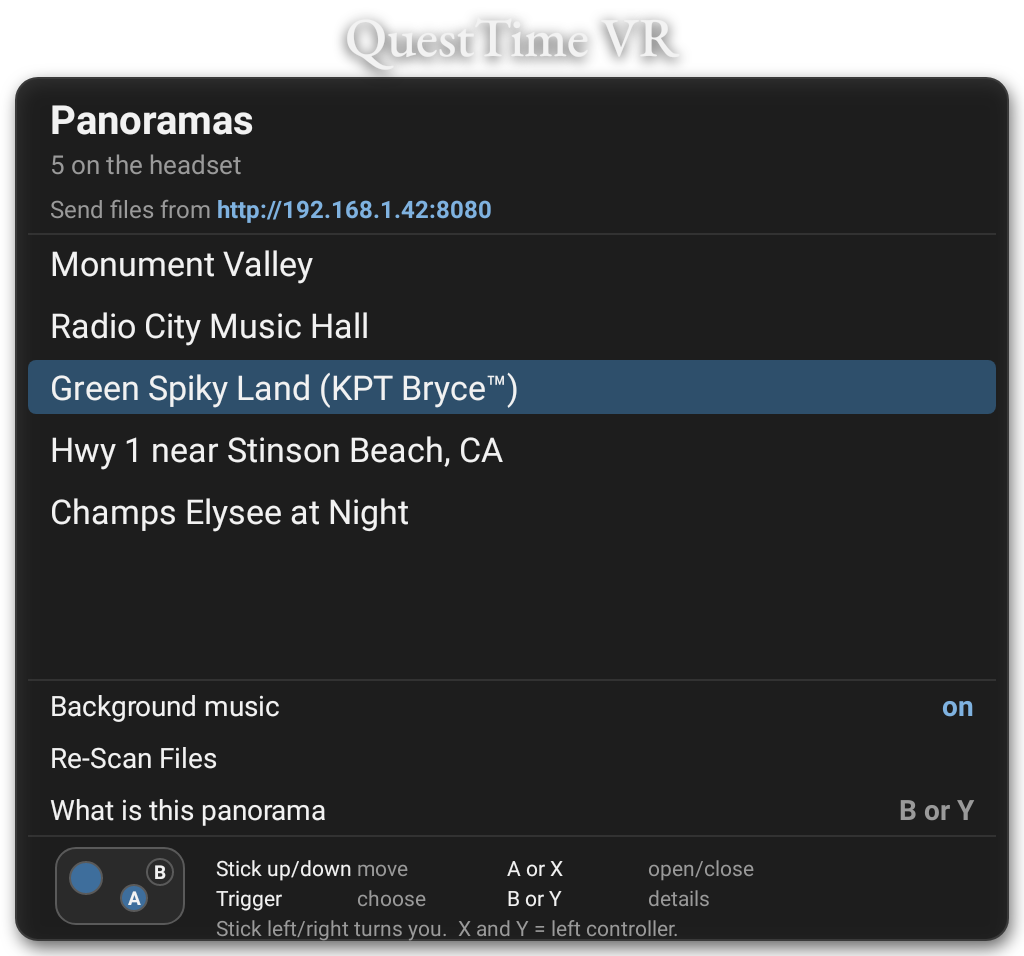
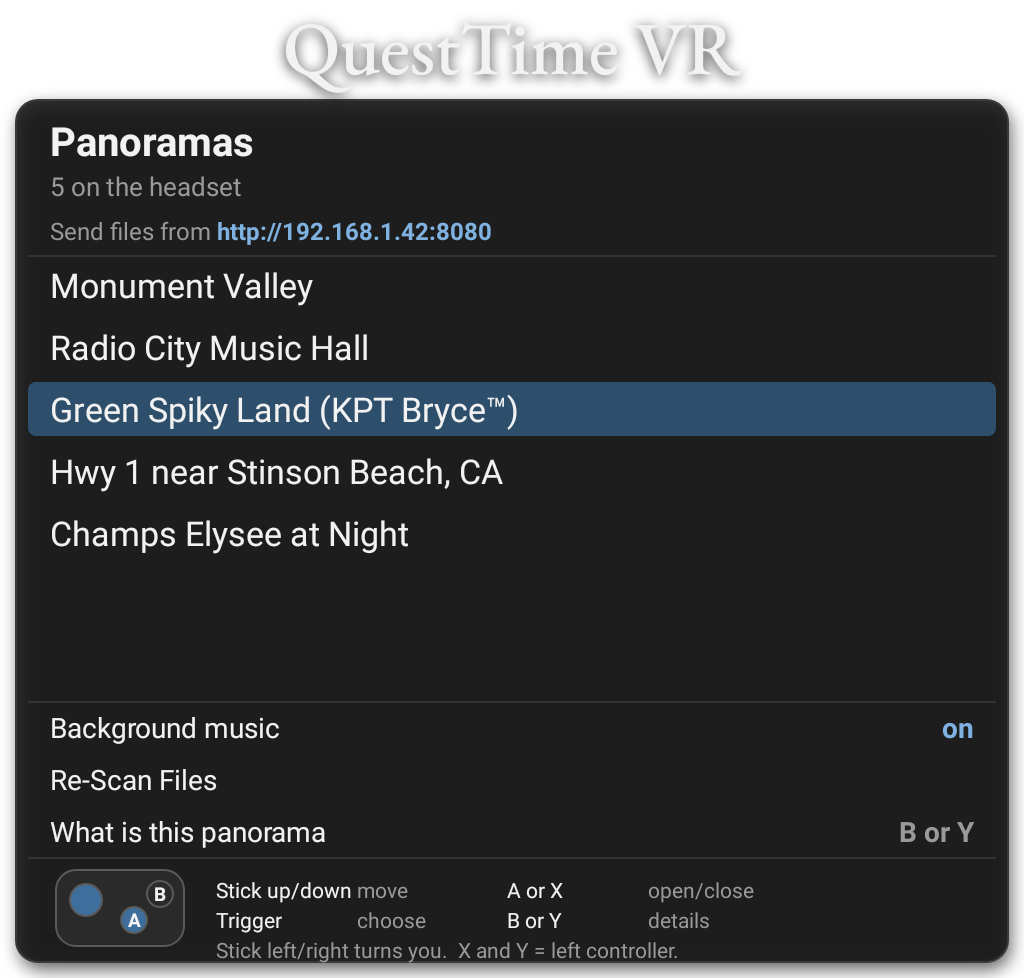
Menu title at 75 px, in a taller strip above the panel
BRAND_H grows from 62 to 84 so the capitals and the Q's tail both fit. rowAt and
listHeight read it, and native sizes the quad from the bitmap's proportions, so
nothing else changes. 126 tests, 0 skipped, 0 failed.

diff --git a/android/app/src/main/java/com/questtime/vr/MenuBar.kt b/android/app/src/main/java/com/questtime/vr/MenuBar.kt
@@ -318,7 +318,10 @@ object MenuBar {
      * rather than inside it, so it reads as a title on the panel instead of a first
      * row in the list.
      */
-    internal const val BRAND_H = 62f
+    // Sized to the title: at 75 px of Garamond the capitals need about 50 px above the
+    // baseline and the Q's tail about 18 below it. rowAt and listHeight both read this,
+    // so the rows move with it and nothing else needs telling.
+    internal const val BRAND_H = 84f
 
     /** Rows in the band under the list, in order. Index 0 is the first after the files. */
     internal const val ACTION_MUSIC = 0
@@ -476,18 +479,18 @@ object MenuBar {
     private fun brand(c: Canvas, panel: RectF) {
         val p = Paint(Paint.ANTI_ALIAS_FLAG).apply {
             color = TEXT
-            // 55 px. Garamond's lowercase is short, so it needs more size than the Roboto
+            // 75 px. Garamond's lowercase is short, so it needs more size than the Roboto
             // it replaced to carry the same weight over a bright panorama.
-            textSize = 55f
+            textSize = 75f
             typeface = brandFace ?: Typeface.create(UI, Typeface.BOLD)
             textAlign = Paint.Align.CENTER
             setShadowLayer(10f, 0f, 3f, 0xCC000000.toInt())
         }
         // Centred over the panel rather than flush with its edge: it is a title for
         // the whole thing, not the first line of the list.
-        // 22 px above the panel rather than 16: at 55 px the Q's tail reaches below the
-        // baseline far enough to touch the panel's top edge.
-        c.drawText("QuestTime VR", panel.centerX(), panel.top - 22f, p)
+        // Far enough above the panel that the Q's tail, which reaches well below the
+        // baseline in Garamond, clears the panel's top edge.
+        c.drawText("QuestTime VR", panel.centerX(), panel.top - 26f, p)
     }
 
     private fun address(c: Canvas, panel: RectF, inset: Float, url: String?) {

diff --git a/CLAUDE.md b/CLAUDE.md
@@ -402,7 +402,7 @@ License - the licence ships beside the font in the APK, as the OFL requires. Not
 Only the title uses it. Everything else stays Roboto, which holds up better at small
 sizes in a headset. `MenuBar.loadBrandFont` is called once from `VrActivity`, because
 loading an asset needs an AssetManager and `MenuBar` has no Context; without it the
-title falls back to bold Roboto rather than failing. It is 55 px, set 22 px above the panel so the tail of the Q clears its top edge. `MenuPreviewTest` loads it too, so
+title falls back to bold Roboto rather than failing. It is 75 px, in an 84 px strip above the panel (`BRAND_H`), set 26 px up so the tail of the Q clears the panel. `rowAt` and `listHeight` read `BRAND_H`, so resizing the title moves the rows with it. `MenuPreviewTest` loads it too, so
 the screenshots match the headset.
 
 **It is submitted last**, after the arcs rather than before them like the caps.
